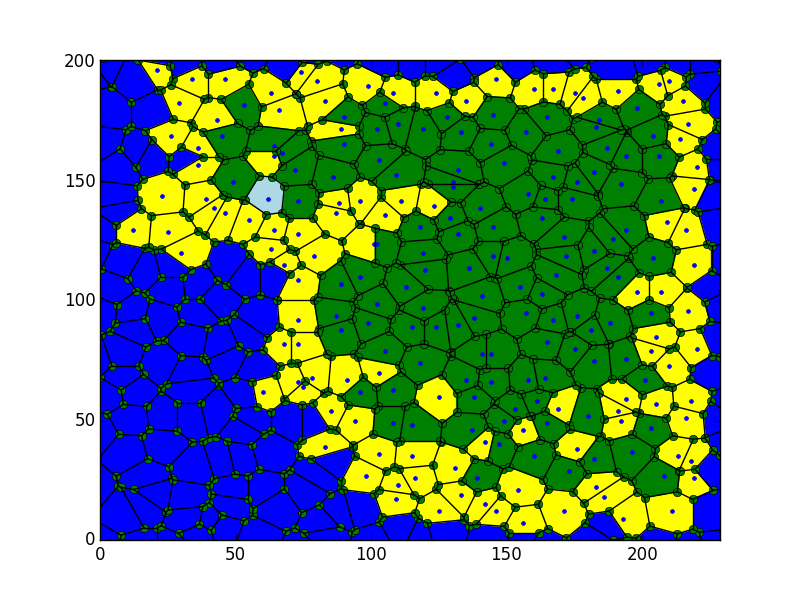
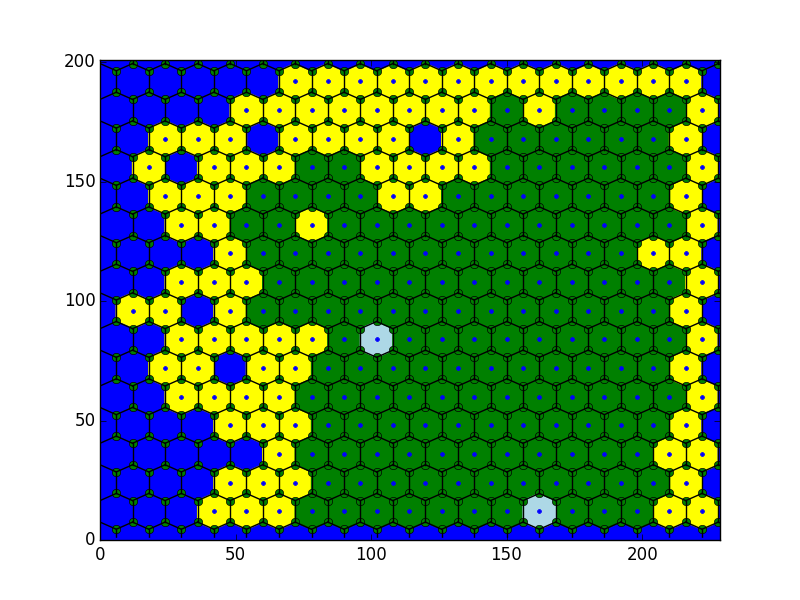
Made tiles hexagon instead of polygon

diff --git a/mapgenerator.py b/mapgenerator.py
@@ -9,11 +9,11 @@ def random_numbers():  # generates the input points for the voronoi diagram
     numbers = []
     for x in range(0, 22):  # first, it fills the area with points in a grid.
         for y in range(0, 22):
-            ysize = x * 12 + np.random.randint(-6, 6)
+            ysize = x * 12  # + np.random.randint(-6, 6)
             if x % 2 == 0:  # every even row is moved to create hexagon-like points
-                xsize = y * 12 + np.random.randint(-6, 6)  # points are slightly moved around to create quasi-randomness
+                xsize = y * 12  # + np.random.randint(-6, 6)  # points are slightly moved around to create quasi-randomness
             else:
-                xsize = y * 12 + 6 + np.random.randint(-6, 6)
+                xsize = y * 12 + 6  # + np.random.randint(-6, 6)
             pair = [xsize, ysize]
             numbers.append(pair)
     return numbers
